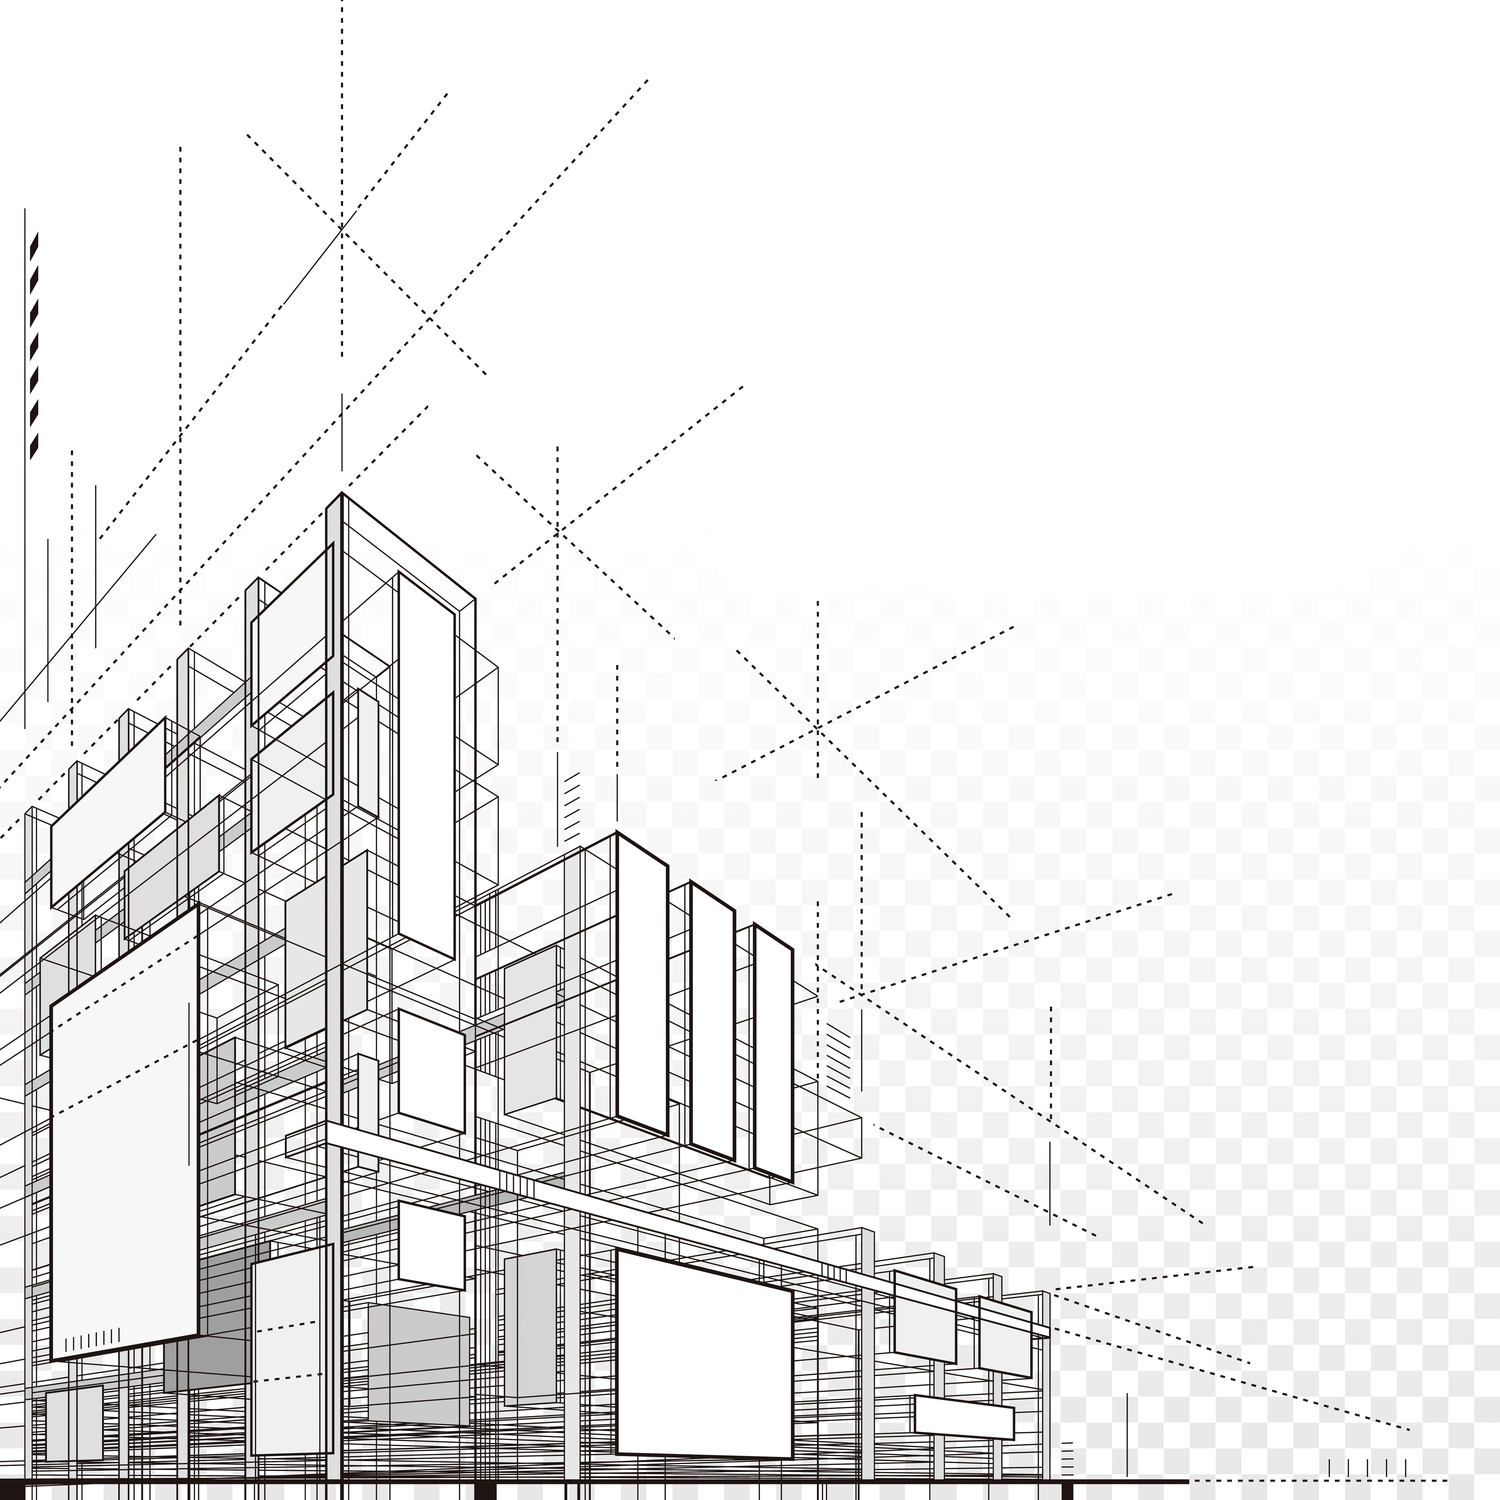
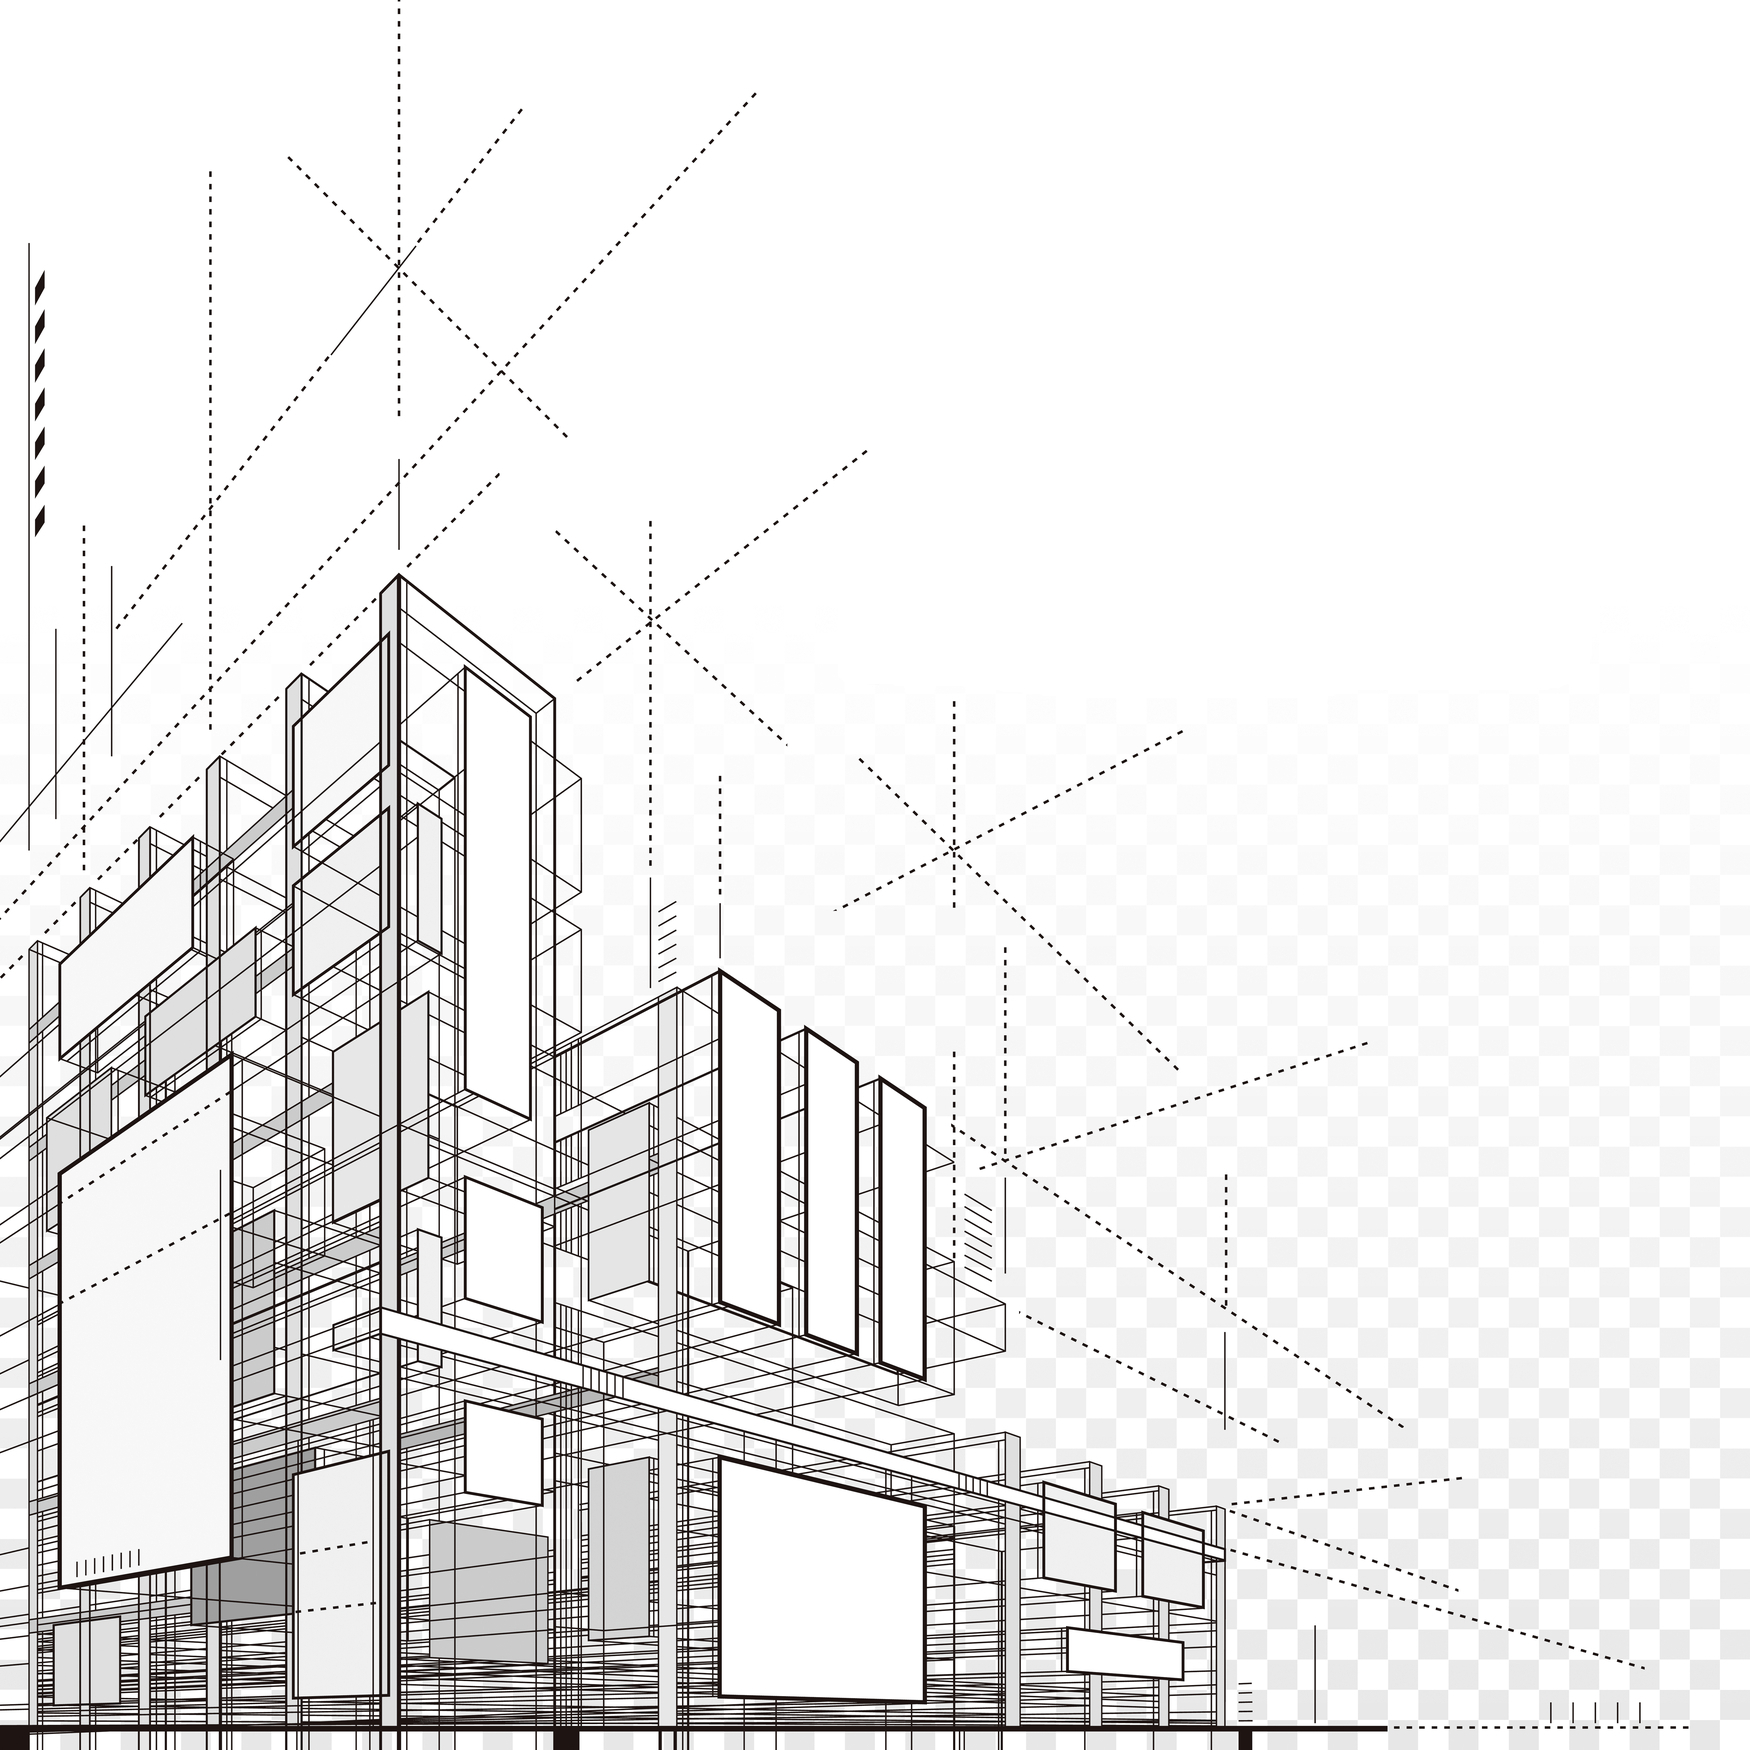
landing image slightly larger, width set to % not vw

diff --git a/pages/index.js b/pages/index.js
@@ -15,7 +15,9 @@ const HeroSectionWrapper = styled.div`
 	display: flex;
 	justify-content: center;
 	align-items: center;
+	width: 100%;
 	height: 100vh;
+	transition: 0.2 ease-in-out;
 	position: static;
 	border-radius: 0;
 	margin-top: -80px;

diff --git a/store/context.js b/store/context.js
@@ -51,7 +51,7 @@ const StoreContextProvider = ({ children }) => {
 		animate: {
 			opacity: 1,
 			transition: {
-				duration: 0.2,
+				duration: 0.3,
 			},
 		},
 	}
